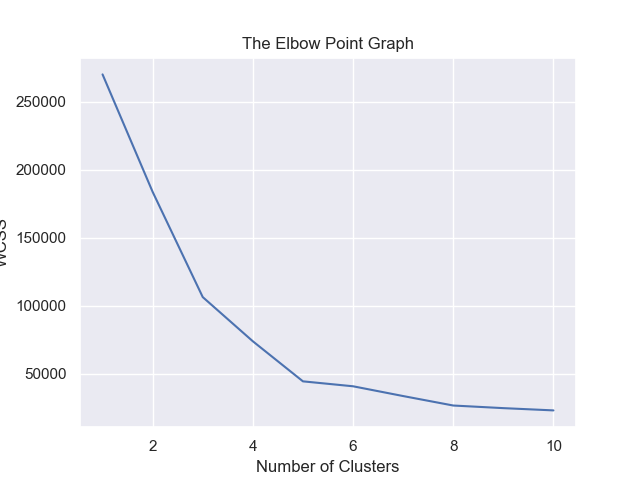
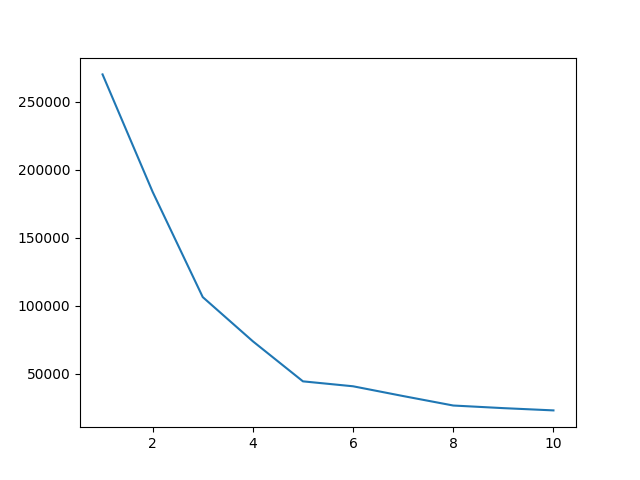
Prodigy

diff --git a/main.py b/main.py
@@ -31,8 +31,8 @@ for i in range(1,11):
   wcss.append(kmeans.inertia_)
 
 # plot an elbow graph
-sns.set()
 plt.plot(range(1,11), wcss)
+plt.savefig("outputs\Figure_1.png")
 plt.title('The Elbow Point Graph')
 plt.xlabel('Number of Clusters')
 plt.ylabel('WCSS')
@@ -54,7 +54,7 @@ plt.scatter(X[Y==4,0], X[Y==4,1], s=50, c='blue', label='Cluster 5')
 
 # plot the centroids
 plt.scatter(kmeans.cluster_centers_[:,0], kmeans.cluster_centers_[:,1], s=100, c='cyan', label='Centroids')
-
+plt.savefig("outputs\Figure_2.png")
 plt.title('Customer Groups')
 plt.xlabel('Annual Income')
 plt.ylabel('Spending Score')
